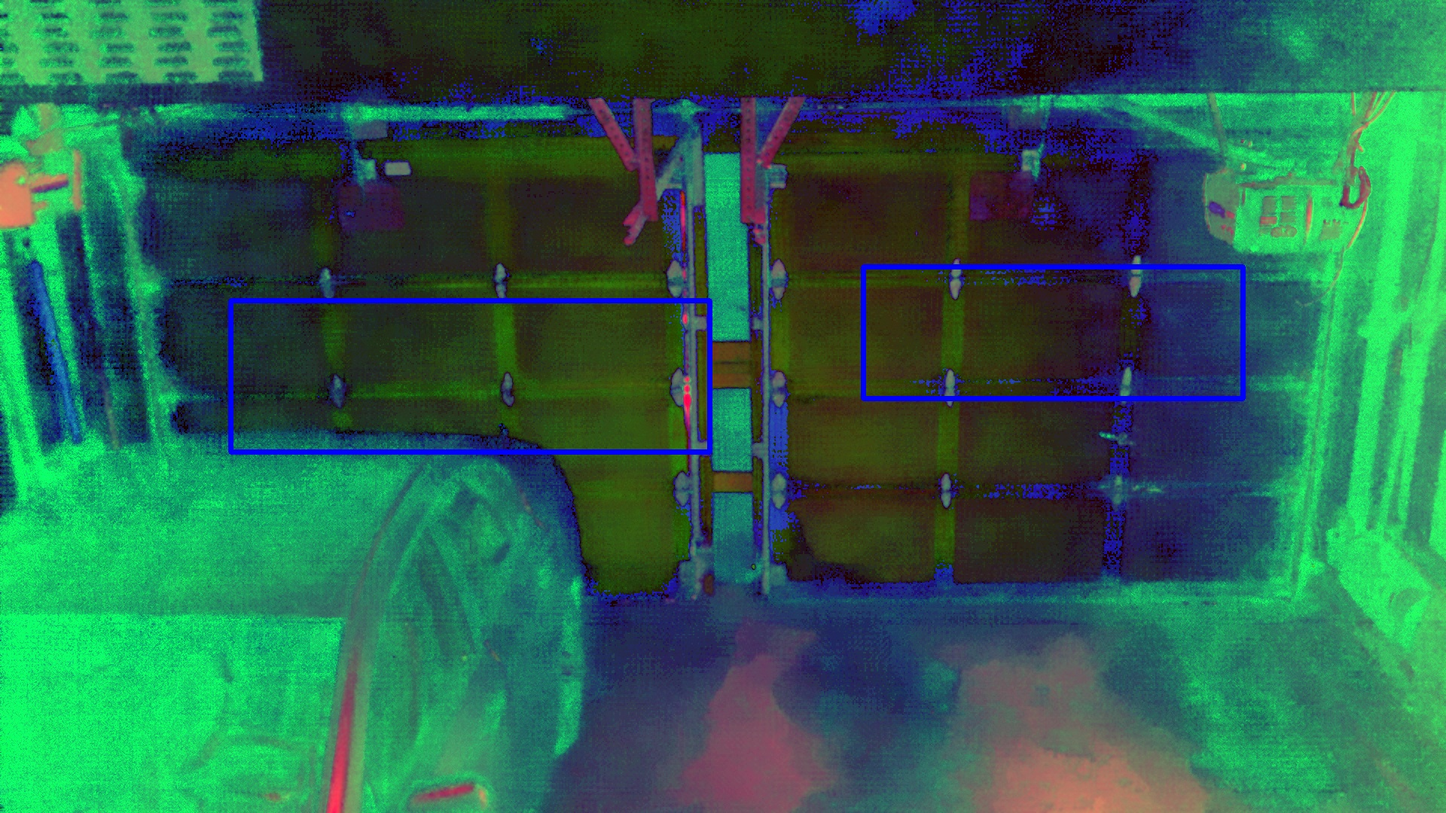
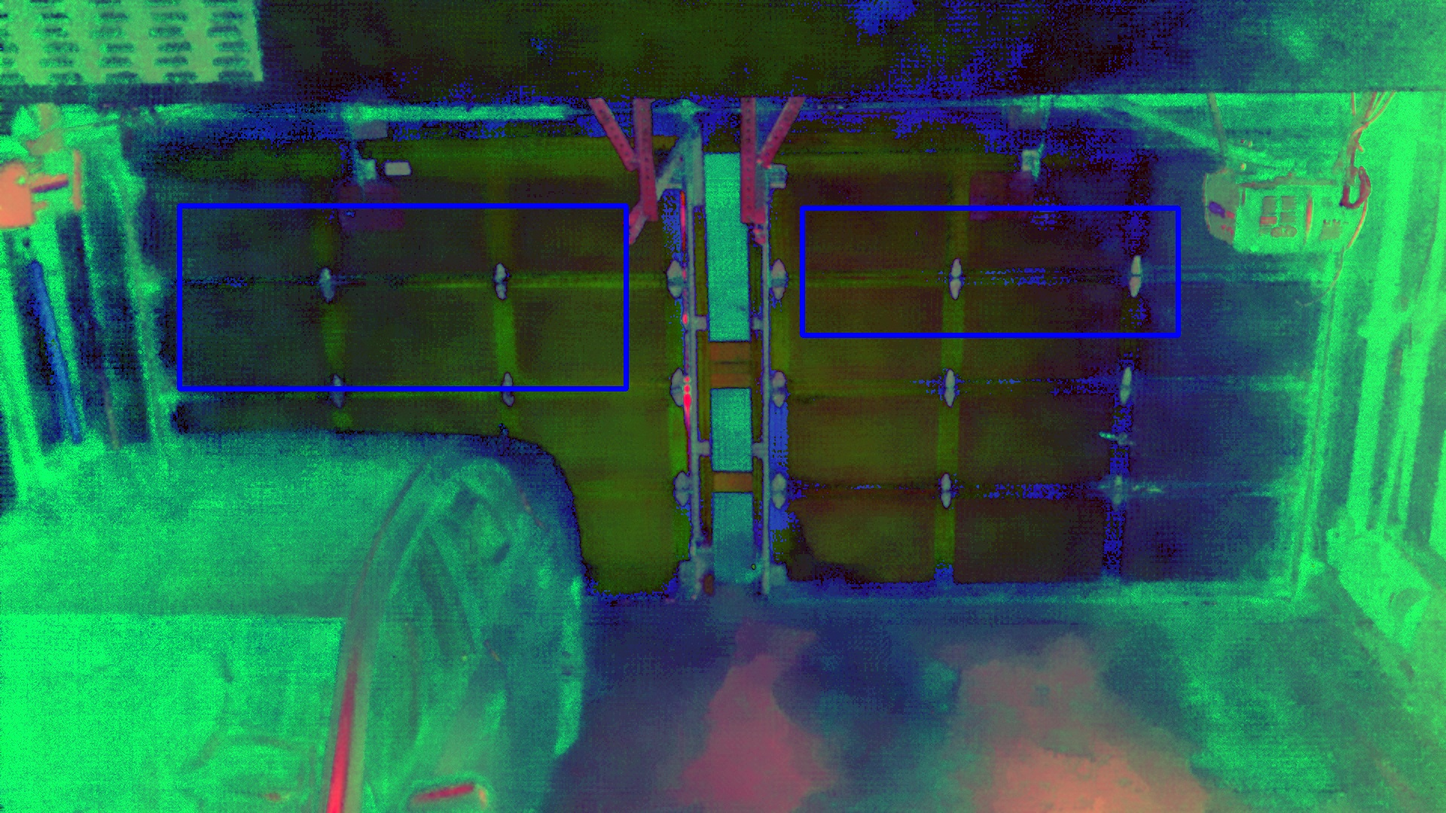
changed box dimensions

Changed region(s): [[0.125, 0.2444, 0.5, 0.5806], [0.5312, 0.2444, 0.875, 0.5194], [0.0938, 0.275, 0.125, 0.4583]]

diff --git a/ImageHandler.py b/ImageHandler.py
@@ -1,6 +1,6 @@
 import cv2 as cv2
 import numpy as np
-from picamera import PiCamera
+# from picamera import PiCamera
 from time import sleep
 
 def check_garage_doors_open (root_folder):
@@ -24,8 +24,8 @@ def check_garage_doors_open (root_folder):
 
     hsv_img = cv2.cvtColor(img, cv2.COLOR_BGR2HSV)
 
-    cv2.rectangle(hsv_img, (306,399), (942,600), (255, 0, 0) , 5)
-    cv2.rectangle(hsv_img, (1146,354), (1650,529), (255, 0, 0) , 5)
+    cv2.rectangle(hsv_img, (238,273), (831,516), (255, 0, 0) , 5)
+    cv2.rectangle(hsv_img, (1065,276), (1564,445), (255, 0, 0) , 5)
 
     cv2.imwrite(root_folder + "/OutputPhotos/HSV_Photo.jpg", hsv_img)
 
@@ -36,8 +36,8 @@ def check_garage_doors_open (root_folder):
 
     cv2.imwrite(root_folder + "/OutputPhotos/Mask_Photo.jpg", mask)
 
-    cropped_img_left = mask[399:600, 306:942]
-    cropped_img_right = mask[354:529, 1146:1650]
+    cropped_img_left = mask[273:516, 238:831]
+    cropped_img_right = mask[276:445, 1065:1564]
 
     print("left nonzero: " + str(cv2.countNonZero(cropped_img_left)))
     print("right nonzero: " + str(cv2.countNonZero(cropped_img_right)))
